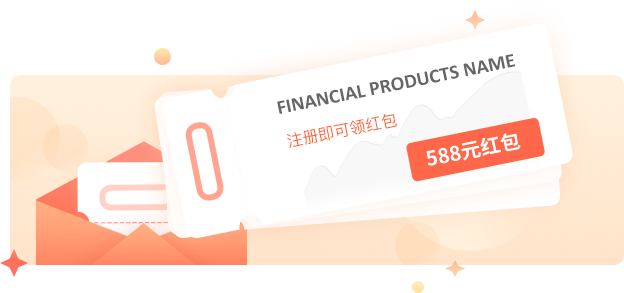
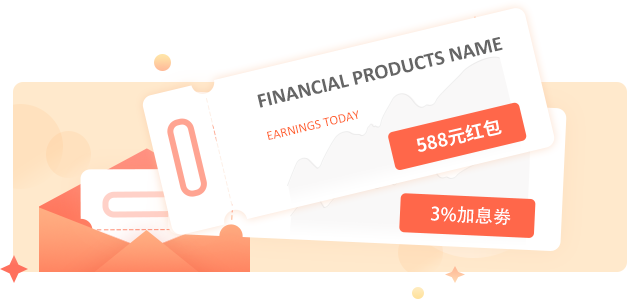
细节的更新

diff --git a/registerGift.html b/registerGift.html
@@ -20,10 +20,10 @@
         <div class="content">
             <p class="text_01">新手红包</p>
             <p class="text_02">“</p>
-            <p class="text_03">注册就能领588元红包，还有这种好事？当然有!还能领更多优惠红包！</p>
+            <p class="text_03">注册就能领588元投资红包再加3%加息券一张（除鑫手标外），还有这种好事？当然有还能领更多优惠红包！</p>
             <img src="http://xlstyle.oss-cn-hangzhou.aliyuncs.com/xinlu-h5/images/register_img02.png" style="padding-top:0.5rem;">
             <p class="text_04" style="padding-bottom:0.2rem;">温馨提示</p>
-            <p class="text_04" style="text-align:justify;">每人仅限注册并领取一次，注册成功后，红包即进入有效期，请注意及时使用；红包领取成功之后，您可以在pc端“我的账户-我的红包”或app端“我的-我的红包”中进行查看。</p>
+            <p class="text_04" style="text-align:justify;">每人仅限注册并领取一次，注册成功后，红包和加息劵即进入有效期，请注意及时使用；红包和加息劵领取成功之后，您可以在“我的-我的福利”中进行查看。</p>
             <div class="btn_01">
                 <img src="http://xlstyle.oss-cn-hangzhou.aliyuncs.com/xinlu-h5/images/register_btn.png">
                 <p>立即注册</p>
